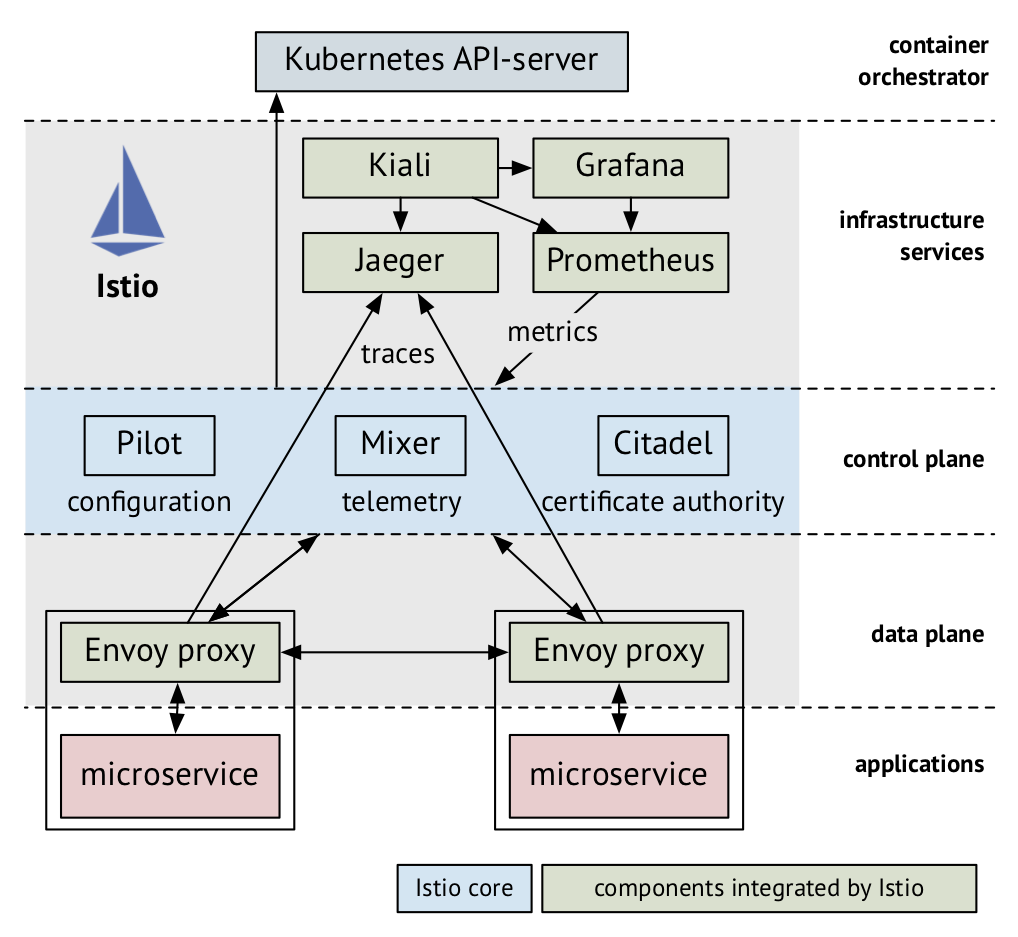
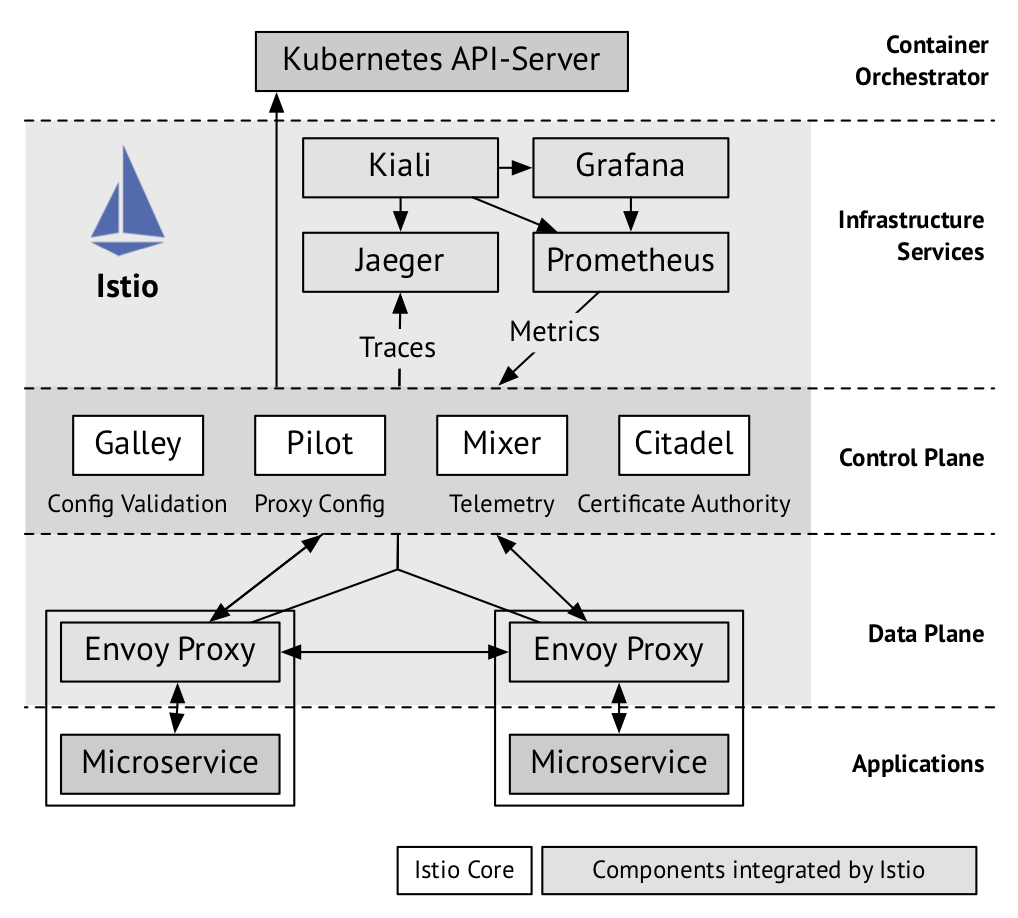
updated istio section and image

diff --git a/manuscript/03-Example.md b/manuscript/03-Example.md
@@ -8,25 +8,21 @@ Kubernetes and uses Istio as a service mesh.
 
 ## Istio
 
-Istio is the most popular service mesh, developed by Google and IBM. Just like Kubernetes, it is an Open Source reimplementation of a Google internal workload orchestrator. Google's internal API & Service Management System is the ancestor of Istio. Istio implements all service mesh features described in the [previous chapter](#chapter-what) such as metrics, logging, tracing, traffic routing, circuit breaking, mTLS, and authorization. Although Istio is designed to be platform-independent, it started with first class support for Kubernetes. Other platforms will follow soon.
+Istio is the most popular service mesh, developed by Google and IBM. Just like Kubernetes, it is an Open Source reimplementation of a Google's internal infrastructure. Istio implements all service mesh features described in the [previous chapter](#chapter-what) such as metrics, logging, tracing, traffic routing, circuit breaking, mTLS, and authorization. Although Istio is designed to be platform-independent, it started with first class support for Kubernetes.
 
-[Figure 4.1](#fig-example-istio) reflects how the service mesh is located between the orchestrator (top) and the application (bottom). Istio integrates with many existing technologies such as Envoy as service proxy for the data plane. The three core components of Istio make up the control plane: Pilot, Mixer and Citadel. They communicate with the envoy proxies to distribute configurations, receive recorded network traffic/telemetry data, or manage certificates.
+[Figure 4.1](#fig-example-istio) reflects how the service mesh is located between the orchestrator (top) and the application (bottom). The four core components of Istio make up the control plane: Galley, Pilot, Mixer and Citadel. They communicate with the service proxies to distribute configurations, receive recorded network traffic/telemetry data, or manage certificates. Istio uses Envoy as service proxy, a widely adopted open source proxy that is used by other service meshes too. 
 
 {id="fig-example-istio"}
 ![Figure 4.1: Istio Architecture](images/05_istio_full.png)
 
-<!--TODO: Galley in Istio Architektur übernehmen--> 
+In addition to the typical service mesh control and data plane, Istio also adds infrastructure services. They support monitoring the microservice applications. Instead of developing its own tools, Istio integrates established applications such as Prometheus, Grafana, and Jaeger and the service mesh dashboard Kiali. The image shows that the Istio control plane interacts with the orchestrator, which today is in most cases Kubernetes.
 
-In addition to the typical service mesh control and data plane, Istio also adds infrastructure services. They support monitoring the microservice applications. Instead of developing its own tools, Istio integrates established applications such as Prometheus, Grafana, and Jaeger and the service mesh dashboard Kiali. The images shows that the Istio control plane interacts with the orchestrator, which today is in most cases Kubernetes.
-
-Istio adds over 20 Custom Resource Definitions (CRDs) to Kubernetes, which represents the complexity of the Istio API and the richness of configuration options. On the one hand, this allows full customization but on the other hand it clearly affect the usability. Istio also adds a number of components (marked blue and green in the figure) to an application which add technical complexity.
-
-<!--TODO: Google Anthos basiert auf Istio, Knative nutzt Istio etc. -->
+In a Kubernetes environment, Istio adds over 20 Custom Resource Definitions (CRDs), which represents the complexity of the Istio API and the richness of configuration options. On the one hand, this allows full customization but on the other hand it clearly affect the usability. Istio also adds a number of components (marked as Istio Core and integrated components in the figure) to an application which add technical complexity.
 
 ## Overview {#section-example-overview}
 
 The example in this chapter contains three microservices: User can use
-the *order* microservice to enter new  orders via a web interface. The
+the *order* microservice to enter new orders via a web interface. The
 data about  the order is  transferred to the  *invoicing* microservice
 that will create an invoice and present it to the user. The *shipping*
 microservice will use the data about the order to create a
